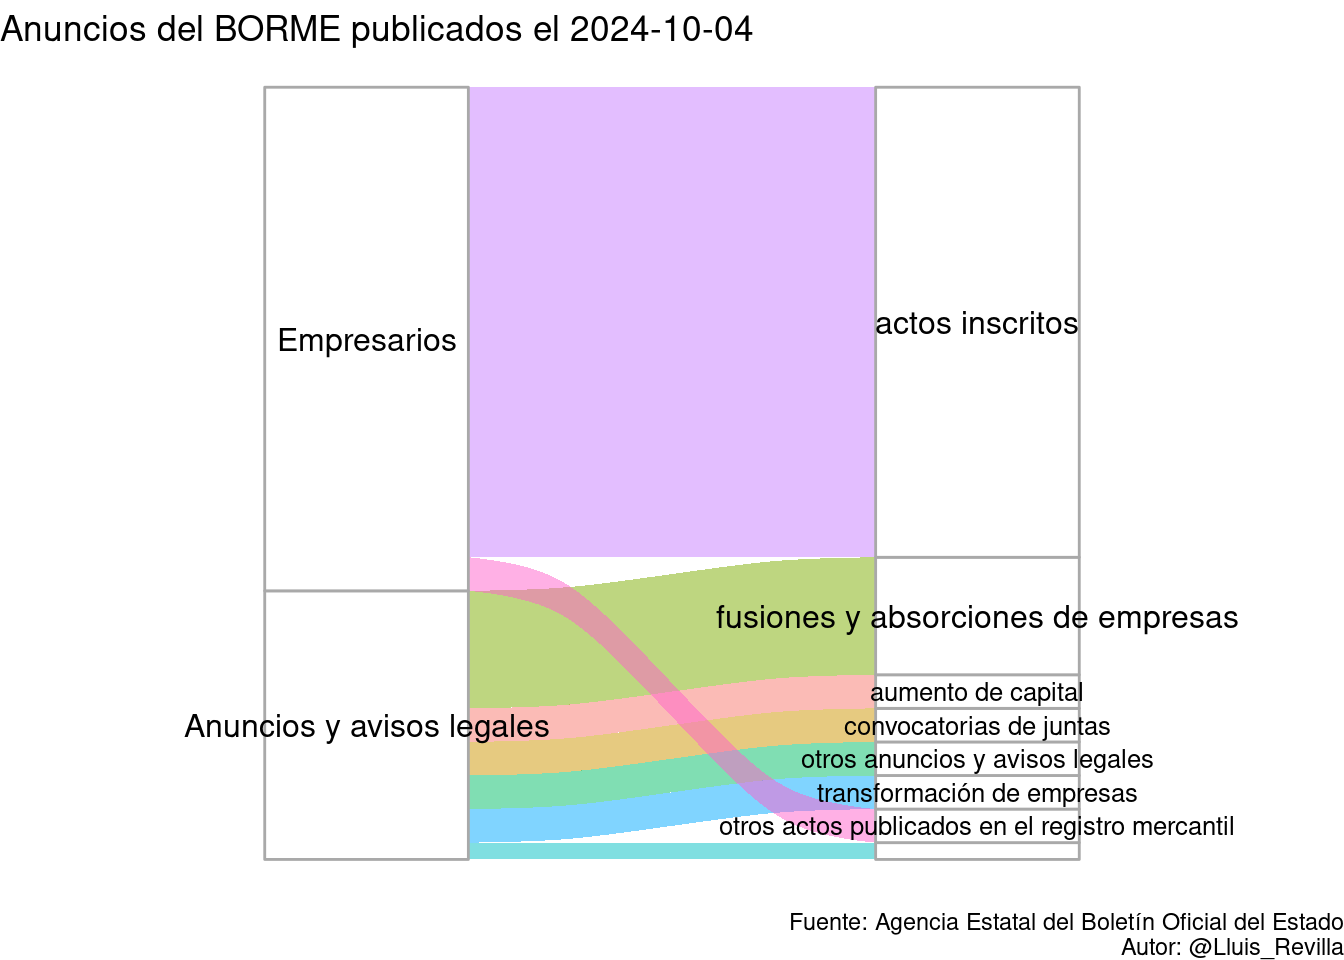
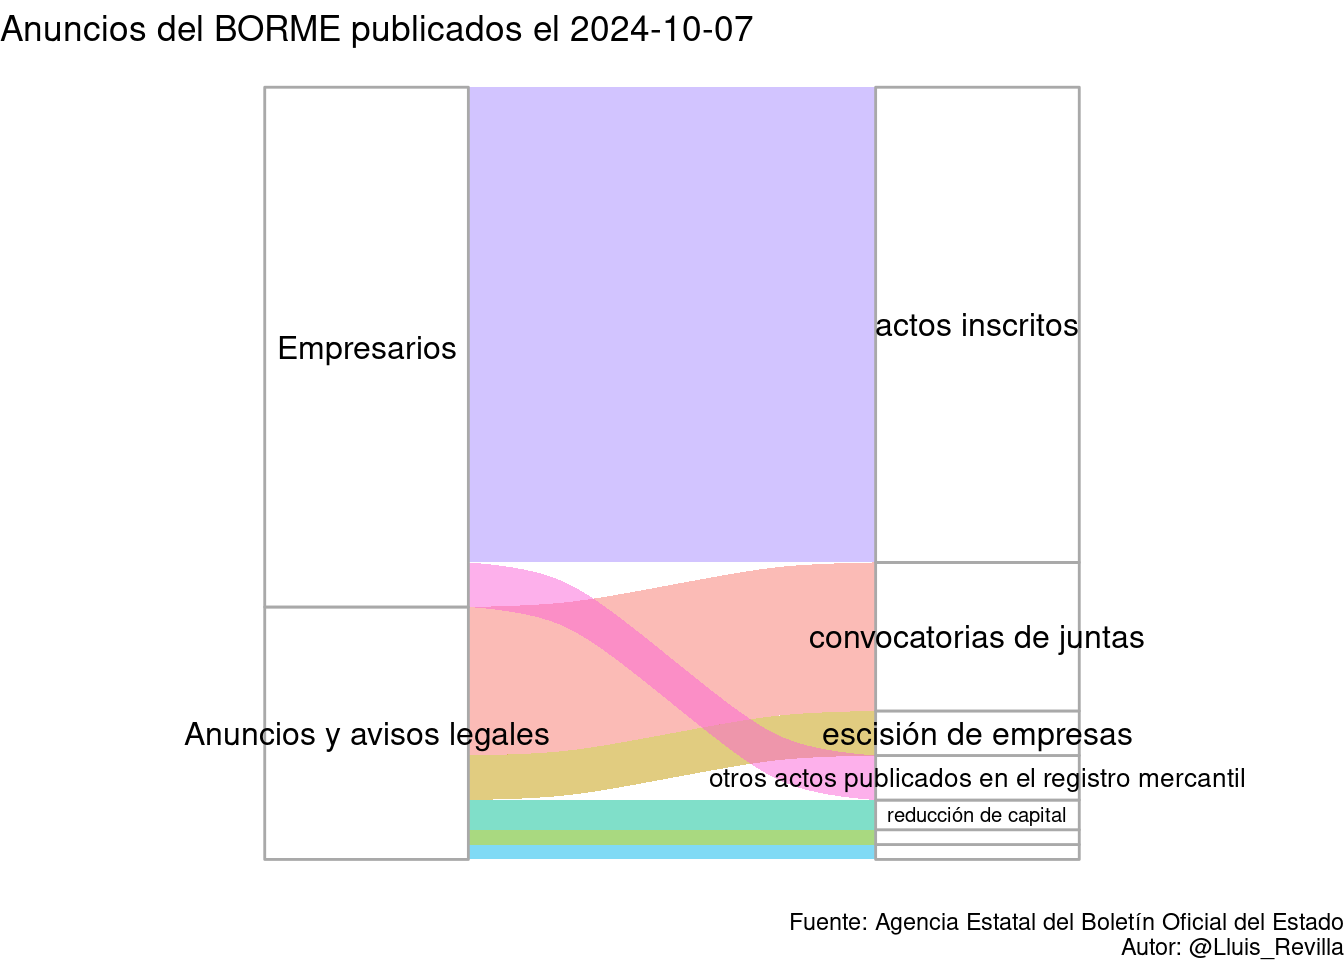
Update BORME

diff --git a/docs/last_BORME.html b/docs/last_BORME.html
@@ -32,6 +32,18 @@
 <script src="site_libs/navigation-1.1/tabsets.js"></script>
 <link href="site_libs/highlightjs-9.12.0/default.css" rel="stylesheet" />
 <script src="site_libs/highlightjs-9.12.0/highlight.js"></script>
+<script src="site_libs/htmlwidgets-1.6.2/htmlwidgets.js"></script>
+<link href="site_libs/datatables-css-0.0.0/datatables-crosstalk.css" rel="stylesheet" />
+<script src="site_libs/datatables-binding-0.31/datatables.js"></script>
+<link href="site_libs/dt-core-1.13.6/css/jquery.dataTables.min.css" rel="stylesheet" />
+<link href="site_libs/dt-core-1.13.6/css/jquery.dataTables.extra.css" rel="stylesheet" />
+<script src="site_libs/dt-core-1.13.6/js/jquery.dataTables.min.js"></script>
+<link href="site_libs/nouislider-7.0.10/jquery.nouislider.min.css" rel="stylesheet" />
+<script src="site_libs/nouislider-7.0.10/jquery.nouislider.min.js"></script>
+<link href="site_libs/selectize-0.12.0/selectize.bootstrap3.css" rel="stylesheet" />
+<script src="site_libs/selectize-0.12.0/selectize.min.js"></script>
+<link href="site_libs/crosstalk-1.2.1/css/crosstalk.min.css" rel="stylesheet" />
+<script src="site_libs/crosstalk-1.2.1/js/crosstalk.min.js"></script>
 <link href="site_libs/font-awesome-6.4.2/css/all.min.css" rel="stylesheet" />
 <link href="site_libs/font-awesome-6.4.2/css/v4-shims.min.css" rel="stylesheet" />
 <script async src="https://www.googletagmanager.com/gtag/js?id=UA-57101844-6"></script>
@@ -365,7 +377,17 @@ $(document).ready(function () {
 </div>
 
 
-<p>Sorry tody I couldn’t retrieve the results</p>
+<div id="resumen-gráfico" class="section level1">
+<h1>Resumen gráfico</h1>
+<p>Esta página web contiene el último sumario del BORME publicado el 2024-10-07 con 52 publicaciones.</p>
+<p><img src="last_BORME_files/figure-html/graphics-1.png" width="672" /></p>
+</div>
+<div id="tabla-de-publicaciones" class="section level1">
+<h1>Tabla de publicaciones</h1>
+<p>Aquí está la tabla completa con enlaces a las publicaciones:</p>
+<div class="datatables html-widget html-fill-item-overflow-hidden html-fill-item" id="htmlwidget-9809d0000ed359def008" style="width:100%;height:auto;"></div>
+<script type="application/json" data-for="htmlwidget-9809d0000ed359def008">{"x":{"filter":"top","vertical":false,"filterHTML":"<tr>\n  <td><\/td>\n  <td data-type=\"character\" style=\"vertical-align: top;\">\n    <div class=\"form-group has-feedback\" style=\"margin-bottom: auto;\">\n      <input type=\"search\" placeholder=\"All\" class=\"form-control\" style=\"width: 100%;\"/>\n      <span class=\"glyphicon glyphicon-remove-circle form-control-feedback\"><\/span>\n    <\/div>\n  <\/td>\n  <td data-type=\"character\" style=\"vertical-align: top;\">\n    <div class=\"form-group has-feedback\" style=\"margin-bottom: auto;\">\n      <input type=\"search\" placeholder=\"All\" class=\"form-control\" style=\"width: 100%;\"/>\n      <span class=\"glyphicon glyphicon-remove-circle form-control-feedback\"><\/span>\n    <\/div>\n  <\/td>\n  <td data-type=\"character\" style=\"vertical-align: top;\">\n    <div class=\"form-group has-feedback\" style=\"margin-bottom: auto;\">\n      <input type=\"search\" placeholder=\"All\" class=\"form-control\" style=\"width: 100%;\" disabled=\"\"/>\n      <span class=\"glyphicon glyphicon-remove-circle form-control-feedback\"><\/span>\n    <\/div>\n  <\/td>\n  <td data-type=\"character\" style=\"vertical-align: top;\">\n    <div class=\"form-group has-feedback\" style=\"margin-bottom: auto;\">\n      <input type=\"search\" placeholder=\"All\" class=\"form-control\" style=\"width: 100%;\"/>\n      <span class=\"glyphicon glyphicon-remove-circle form-control-feedback\"><\/span>\n    <\/div>\n  <\/td>\n<\/tr>","data":[["1","2","3","4","5","6","7","8","9","10","11","12","13","14","15","16","17","18","19","20","21","22","23","24","25","26","27","28","29","30","31","32","33","34","35","36","37","38","39","40","41","42","43","44","45","46","47","48","49","50","51","52"],["SECCIÓN PRIMERA. Empresarios","SECCIÓN PRIMERA. Empresarios","SECCIÓN PRIMERA. Empresarios","SECCIÓN PRIMERA. Empresarios","SECCIÓN PRIMERA. Empresarios","SECCIÓN PRIMERA. Empresarios","SECCIÓN PRIMERA. Empresarios","SECCIÓN PRIMERA. Empresarios","SECCIÓN PRIMERA. Empresarios","SECCIÓN PRIMERA. Empresarios","SECCIÓN PRIMERA. Empresarios","SECCIÓN PRIMERA. Empresarios","SECCIÓN PRIMERA. Empresarios","SECCIÓN PRIMERA. Empresarios","SECCIÓN PRIMERA. Empresarios","SECCIÓN PRIMERA. Empresarios","SECCIÓN PRIMERA. Empresarios","SECCIÓN PRIMERA. Empresarios","SECCIÓN PRIMERA. Empresarios","SECCIÓN PRIMERA. Empresarios","SECCIÓN PRIMERA. Empresarios","SECCIÓN PRIMERA. Empresarios","SECCIÓN PRIMERA. Empresarios","SECCIÓN PRIMERA. Empresarios","SECCIÓN PRIMERA. Empresarios","SECCIÓN PRIMERA. Empresarios","SECCIÓN PRIMERA. Empresarios","SECCIÓN PRIMERA. Empresarios","SECCIÓN PRIMERA. Empresarios","SECCIÓN PRIMERA. Empresarios","SECCIÓN PRIMERA. Empresarios","SECCIÓN PRIMERA. Empresarios","SECCIÓN PRIMERA. Empresarios","SECCIÓN PRIMERA. Empresarios","SECCIÓN PRIMERA. Empresarios","SECCIÓN SEGUNDA. Anuncios y avisos legales","SECCIÓN SEGUNDA. Anuncios y avisos legales","SECCIÓN SEGUNDA. Anuncios y avisos legales","SECCIÓN SEGUNDA. Anuncios y avisos legales","SECCIÓN SEGUNDA. Anuncios y avisos legales","SECCIÓN SEGUNDA. Anuncios y avisos legales","SECCIÓN SEGUNDA. Anuncios y avisos legales","SECCIÓN SEGUNDA. Anuncios y avisos legales","SECCIÓN SEGUNDA. Anuncios y avisos legales","SECCIÓN SEGUNDA. Anuncios y avisos legales","SECCIÓN SEGUNDA. Anuncios y avisos legales","SECCIÓN SEGUNDA. Anuncios y avisos legales","SECCIÓN SEGUNDA. Anuncios y avisos legales","SECCIÓN SEGUNDA. Anuncios y avisos legales","SECCIÓN SEGUNDA. Anuncios y avisos legales","SECCIÓN SEGUNDA. Anuncios y avisos legales","SECCIÓN SEGUNDA. Anuncios y avisos legales"],["Actos inscritos","Actos inscritos","Actos inscritos","Actos inscritos","Actos inscritos","Actos inscritos","Actos inscritos","Actos inscritos","Actos inscritos","Actos inscritos","Actos inscritos","Actos inscritos","Actos inscritos","Actos inscritos","Actos inscritos","Actos inscritos","Actos inscritos","Actos inscritos","Actos inscritos","Actos inscritos","Actos inscritos","Actos inscritos","Actos inscritos","Actos inscritos","Actos inscritos","Actos inscritos","Actos inscritos","Actos inscritos","Actos inscritos","Actos inscritos","Actos inscritos","Actos inscritos","Otros actos publicados en el Registro Mercantil","Otros actos publicados en el Registro Mercantil","Otros actos publicados en el Registro Mercantil","CONVOCATORIAS DE JUNTAS","CONVOCATORIAS DE JUNTAS","CONVOCATORIAS DE JUNTAS","CONVOCATORIAS DE JUNTAS","CONVOCATORIAS DE JUNTAS","CONVOCATORIAS DE JUNTAS","CONVOCATORIAS DE JUNTAS","CONVOCATORIAS DE JUNTAS","CONVOCATORIAS DE JUNTAS","CONVOCATORIAS DE JUNTAS","FUSIONES Y ABSORCIONES DE EMPRESAS","ESCISIÓN DE EMPRESAS","ESCISIÓN DE EMPRESAS","ESCISIÓN DE EMPRESAS","TRANSFORMACIÓN DE EMPRESAS","REDUCCIÓN DE CAPITAL","REDUCCIÓN DE CAPITAL"],[null,null,null,null,null,null,null,null,null,null,null,null,null,null,null,null,null,null,null,null,null,null,null,null,null,null,null,null,null,null,null,null,null,null,null,null,null,null,null,null,null,null,null,null,null,null,null,null,null,null,null,null],["BORME-A-2024-193-03","BORME-A-2024-193-04","BORME-A-2024-193-05","BORME-A-2024-193-06","BORME-A-2024-193-07","BORME-A-2024-193-08","BORME-A-2024-193-11","BORME-A-2024-193-12","BORME-A-2024-193-15","BORME-A-2024-193-17","BORME-A-2024-193-18","BORME-A-2024-193-22","BORME-A-2024-193-23","BORME-A-2024-193-24","BORME-A-2024-193-26","BORME-A-2024-193-28","BORME-A-2024-193-29","BORME-A-2024-193-30","BORME-A-2024-193-31","BORME-A-2024-193-33","BORME-A-2024-193-34","BORME-A-2024-193-35","BORME-A-2024-193-38","BORME-A-2024-193-40","BORME-A-2024-193-41","BORME-A-2024-193-42","BORME-A-2024-193-45","BORME-A-2024-193-46","BORME-A-2024-193-47","BORME-A-2024-193-49","BORME-A-2024-193-50","BORME-A-2024-193-99","BORME-B-2024-193-08","BORME-B-2024-193-28","BORME-B-2024-193-46","BORME-C-2024-5396","BORME-C-2024-5397","BORME-C-2024-5398","BORME-C-2024-5399","BORME-C-2024-5400","BORME-C-2024-5401","BORME-C-2024-5402","BORME-C-2024-5403","BORME-C-2024-5404","BORME-C-2024-5405","BORME-C-2024-5406","BORME-C-2024-5407","BORME-C-2024-5408","BORME-C-2024-5409","BORME-C-2024-5410","BORME-C-2024-5411","BORME-C-2024-5412"]],"container":"<table class=\"display\">\n  <thead>\n    <tr>\n      <th> <\/th>\n      <th>Sección<\/th>\n      <th>Emisor<\/th>\n      <th>Texto<\/th>\n      <th>Link<\/th>\n    <\/tr>\n  <\/thead>\n<\/table>","options":{"pageLength":10,"autoWidth":true,"columnDefs":[{"orderable":false,"targets":0},{"name":" ","targets":0},{"name":"Sección","targets":1},{"name":"Emisor","targets":2},{"name":"Texto","targets":3},{"name":"Link","targets":4}],"order":[],"orderClasses":false,"orderCellsTop":true}},"evals":[],"jsHooks":[]}</script>
+</div>
 
 
 
